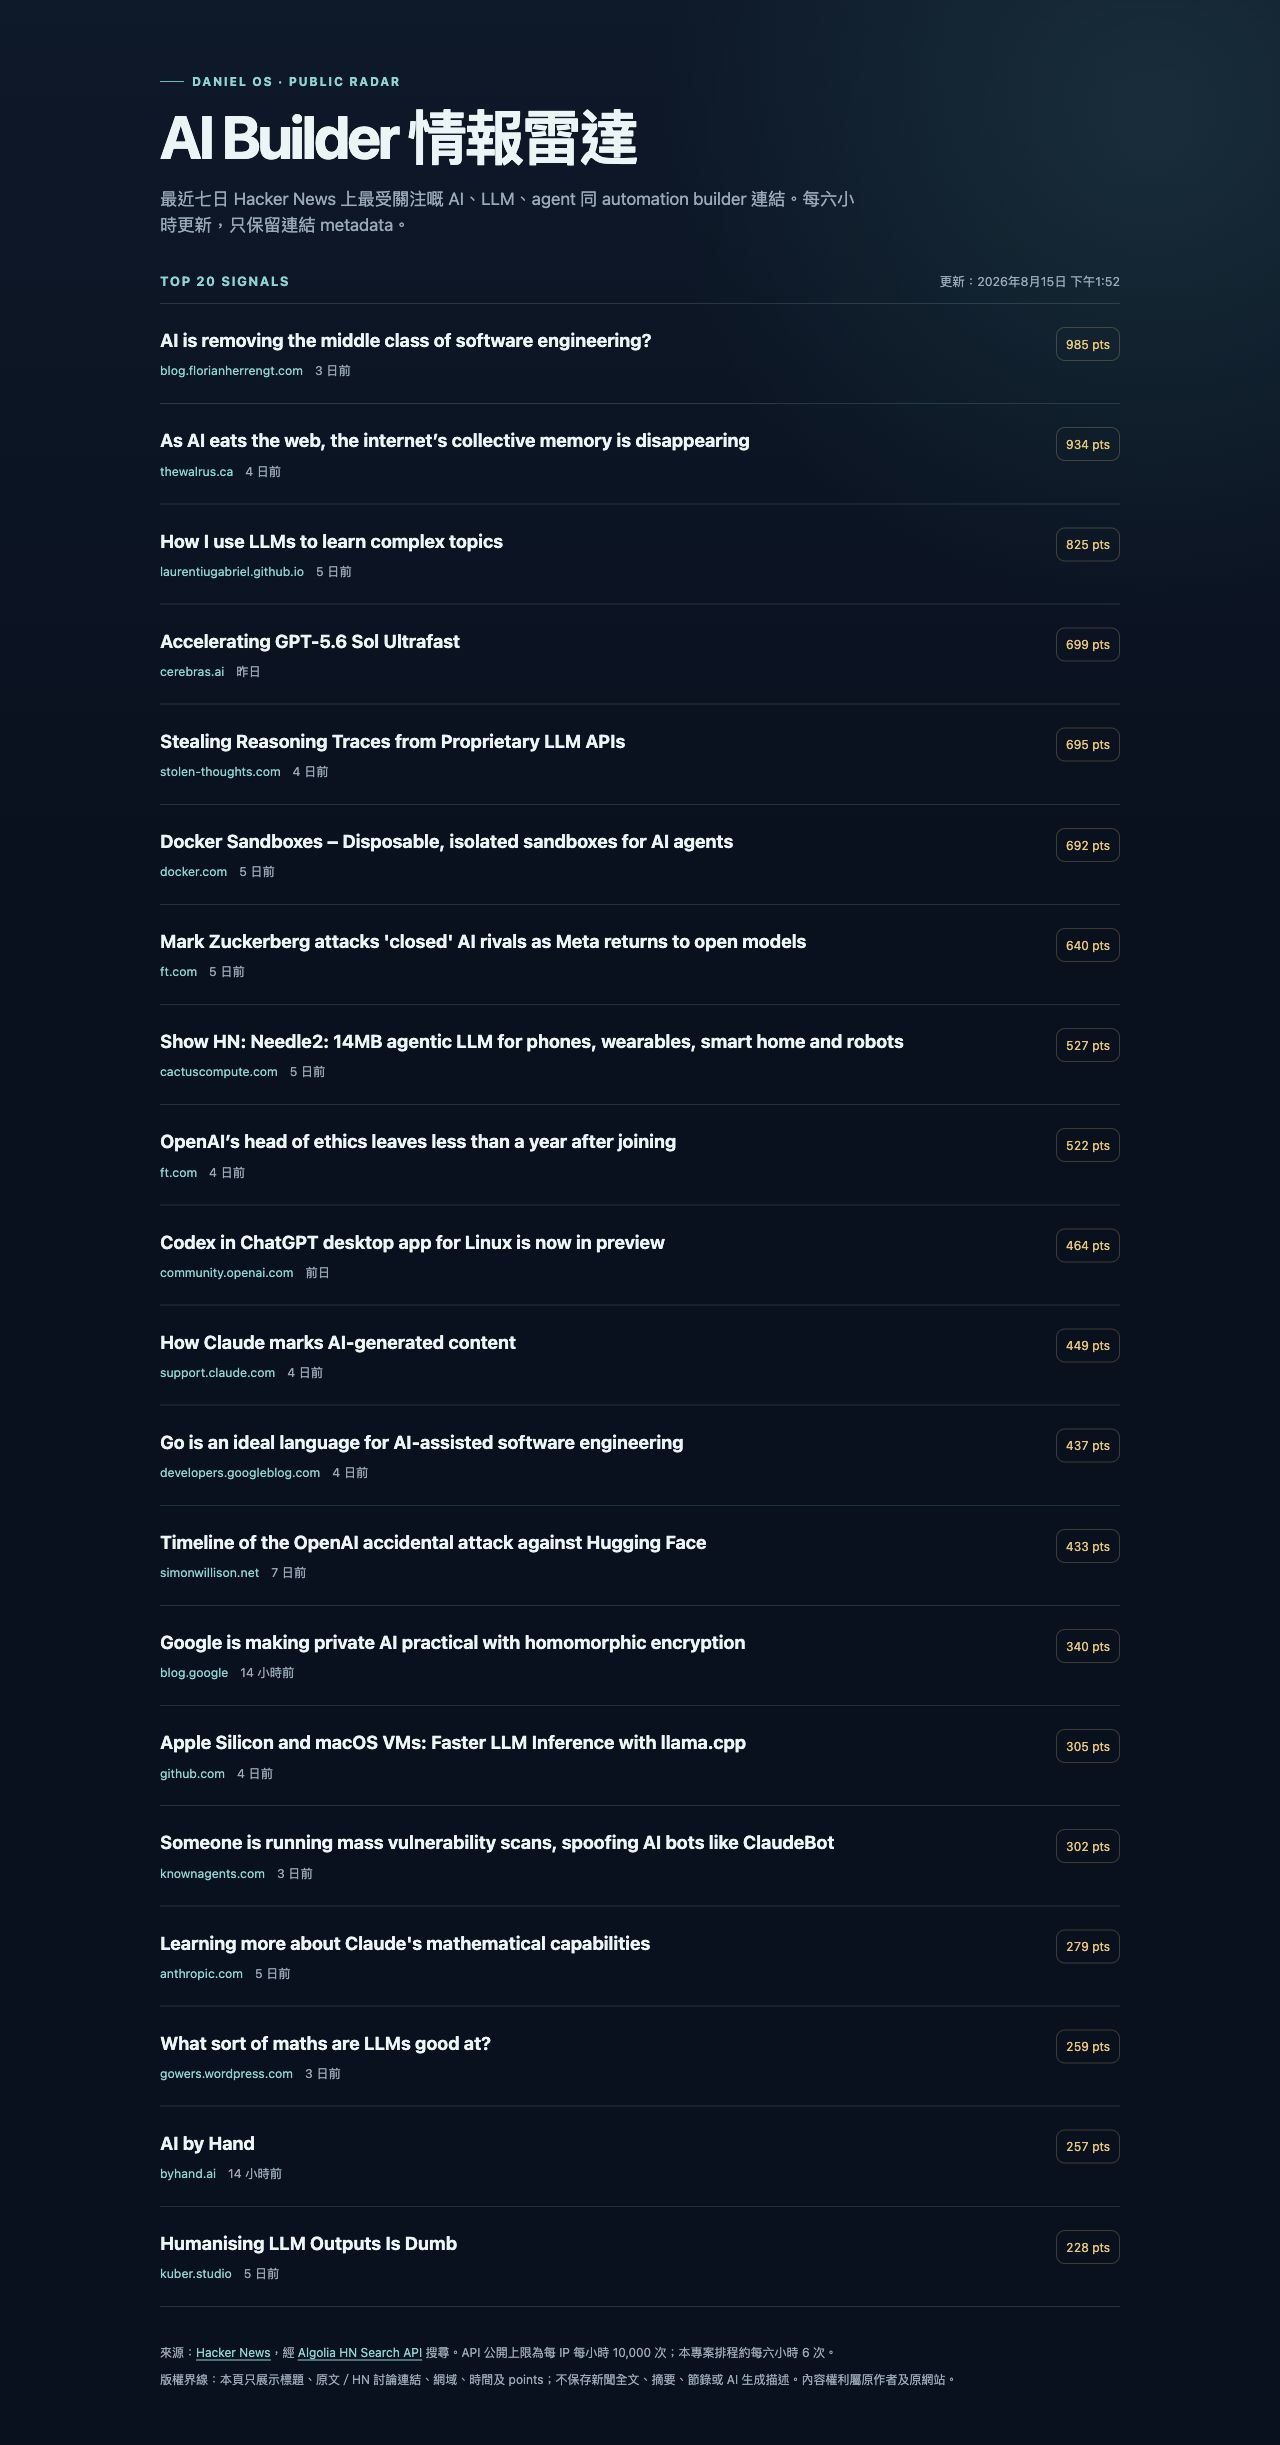
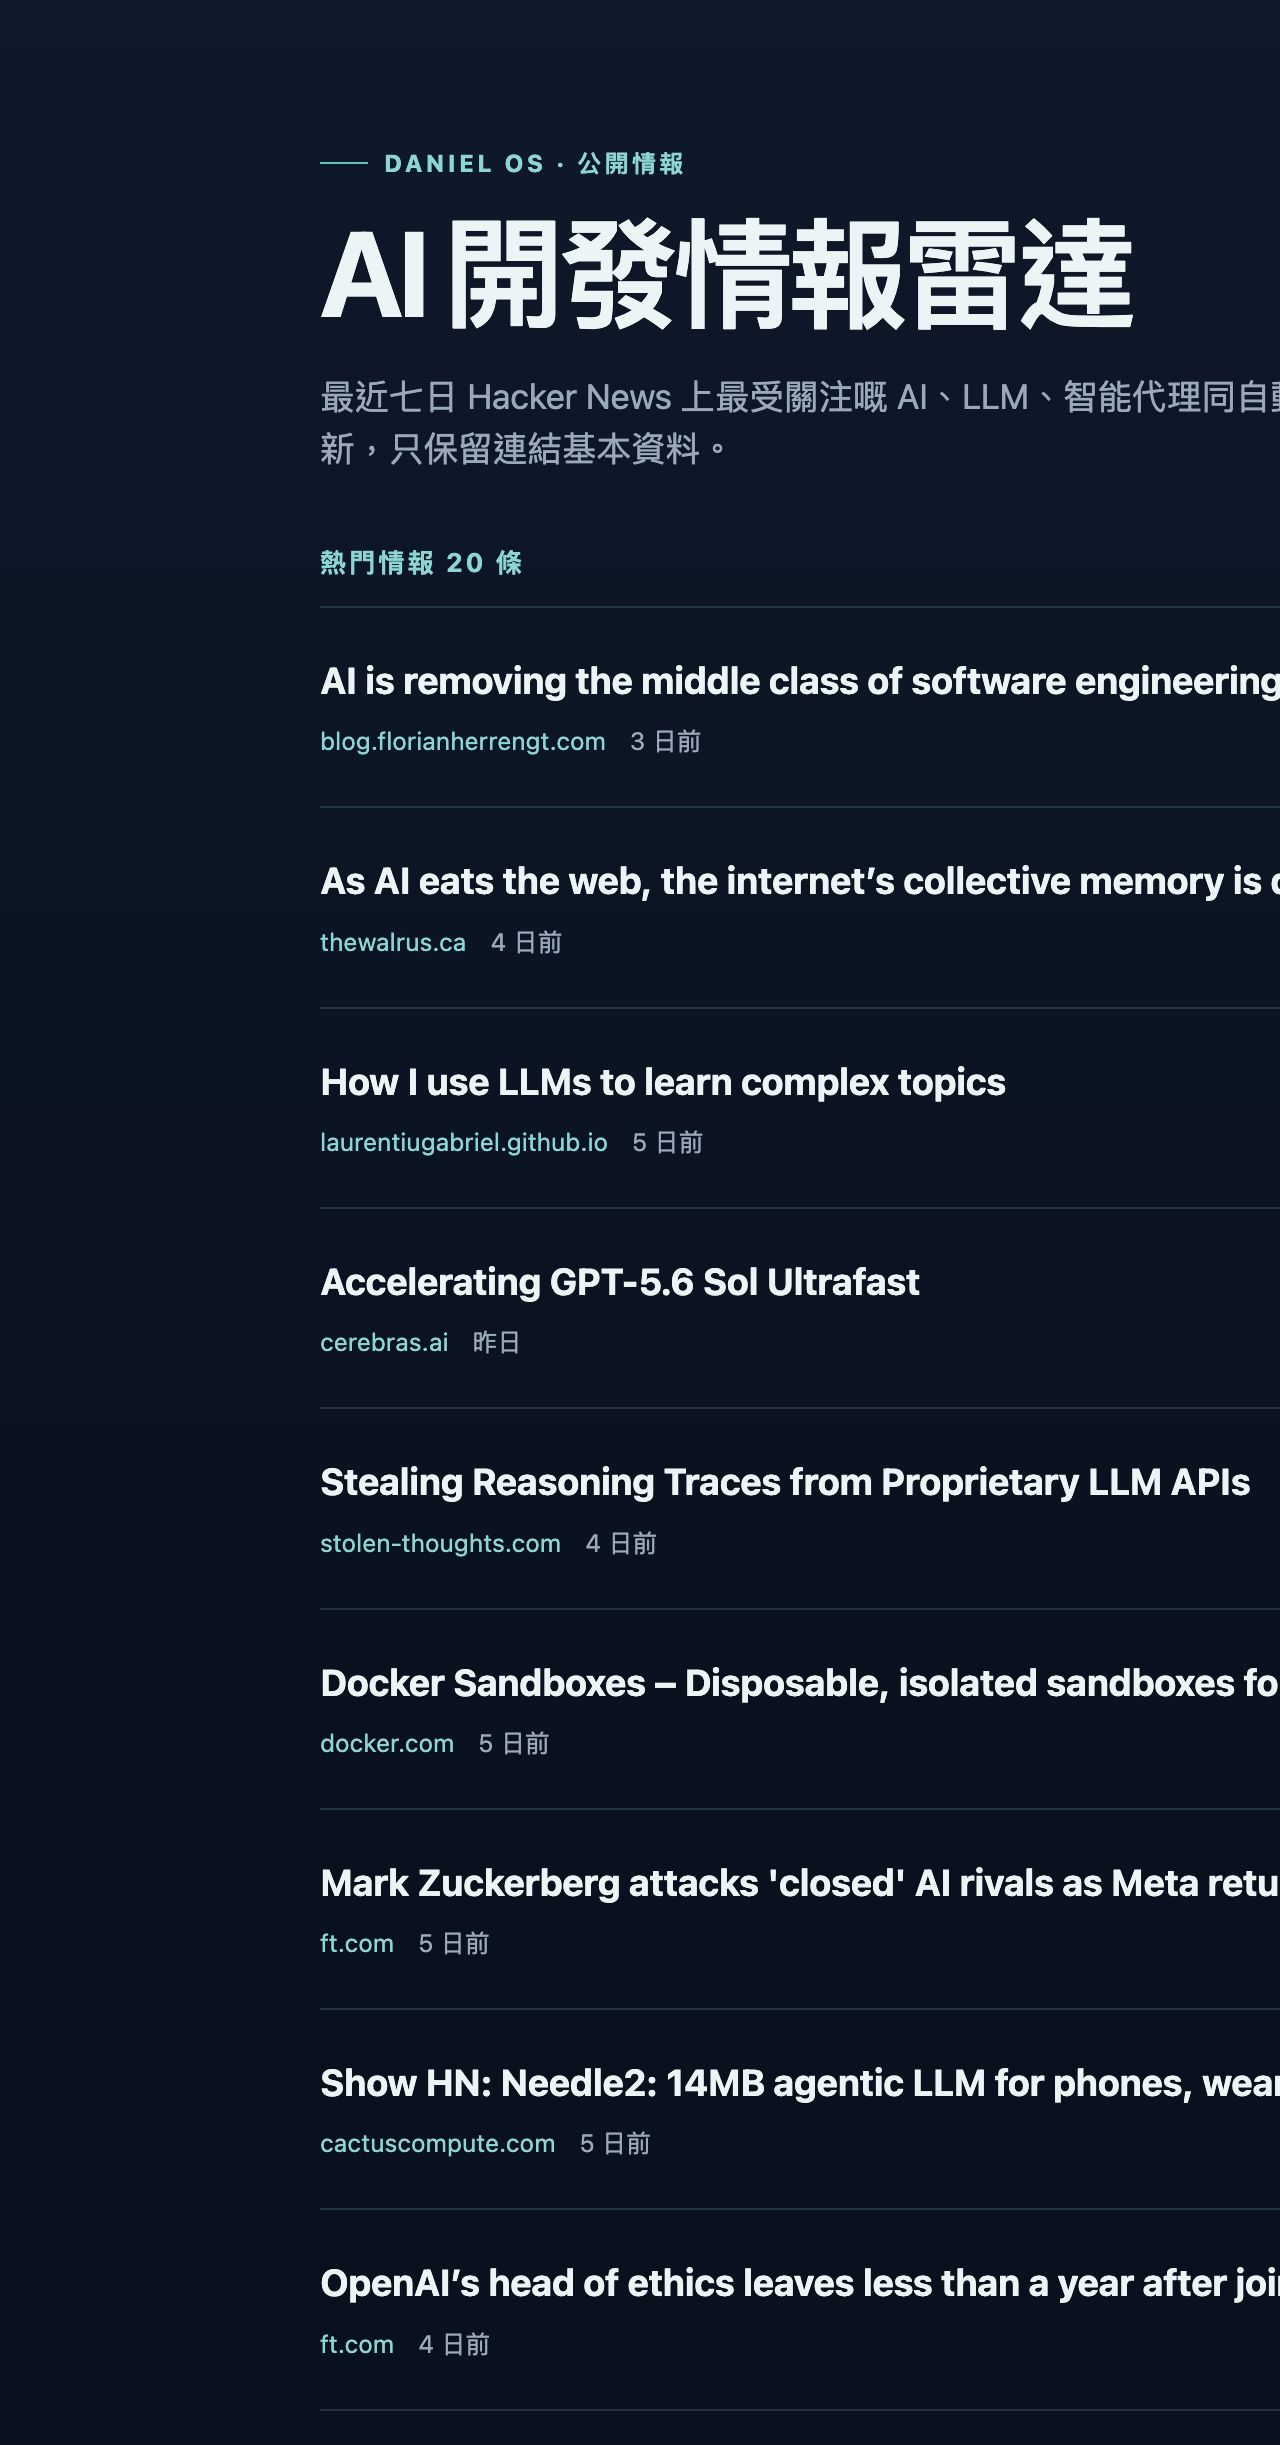
style: localize radar interface in Chinese

diff --git a/news.html b/news.html
@@ -3,8 +3,8 @@
 <head>
   <meta charset="utf-8">
   <meta name="viewport" content="width=device-width, initial-scale=1">
-  <meta name="description" content="Daniel AI Builder 情報雷達：最近七日 Hacker News AI builder 熱門連結。">
-  <title>Daniel AI Builder 情報雷達</title>
+  <meta name="description" content="Daniel AI 開發情報雷達：最近七日 Hacker News AI 開發熱門連結。">
+  <title>Daniel AI 開發情報雷達</title>
   <style>
     :root {
       color-scheme: dark;
@@ -104,15 +104,15 @@
 </head>
 <body>
   <header class="shell">
-    <div class="eyebrow">Daniel OS · Public Radar</div>
-    <h1>AI Builder 情報雷達</h1>
-    <p class="intro">最近七日 Hacker News 上最受關注嘅 AI、LLM、agent 同 automation builder 連結。每六小時更新，只保留連結 metadata。</p>
+    <div class="eyebrow">Daniel OS · 公開情報</div>
+    <h1>AI 開發情報雷達</h1>
+    <p class="intro">最近七日 Hacker News 上最受關注嘅 AI、LLM、智能代理同自動化開發連結。每六小時更新，只保留連結基本資料。</p>
   </header>
 
   <main class="shell">
     <div id="status" class="status" role="status" aria-live="polite"></div>
     <div class="toolbar">
-      <h2>Top 20 signals</h2>
+      <h2>熱門情報 20 條</h2>
       <div id="updated">載入中…</div>
     </div>
     <ol id="stories" aria-busy="true"></ol>
@@ -120,7 +120,7 @@
 
   <footer class="shell">
     <p>來源：<a href="https://news.ycombinator.com/" rel="noopener noreferrer">Hacker News</a>，經 <a href="https://hn.algolia.com/api" rel="noopener noreferrer">Algolia HN Search API</a> 搜尋。API 公開上限為每 IP 每小時 10,000 次；本專案排程約每六小時 6 次。</p>
-    <p>版權界線：本頁只展示標題、原文／HN 討論連結、網域、時間及 points；不保存新聞全文、摘要、節錄或 AI 生成描述。內容權利屬原作者及原網站。</p>
+    <p>版權界線：本頁只展示標題、原文／HN 討論連結、網域、時間及積分；不保存新聞全文、摘要、節錄或 AI 生成描述。內容權利屬原作者及原網站。</p>
   </footer>
 
   <script>
@@ -178,7 +178,7 @@
           main.append(link, meta);
           const points = document.createElement('span');
           points.className = 'points';
-          points.textContent = `${story.points ?? 0} pts`;
+          points.textContent = `${story.points ?? 0} 分`;
           item.append(main, points);
           list.append(item);
         }

diff --git a/README.md b/README.md
@@ -1,13 +1,13 @@
-# Daniel AI Builder 情報雷達
+# Daniel AI 開發情報雷達
 
-一個細而透明嘅公開情報頁：每六小時從 Hacker News 搜尋最近七日嘅 AI builder 訊號，排序後顯示最多 20 條。呢個 repo 係 Dot.ai L3 Day 1 功課第二部分，同私人 Daniel OS 分開；公開內容只有新聞 metadata。
+一個細而透明嘅公開情報頁：每六小時從 Hacker News 搜尋最近七日嘅 AI 開發訊號，排序後顯示最多 20 條。呢個 repo 係 Dot.ai L3 Day 1 功課第二部分，同私人 Daniel OS 分開；公開內容只有新聞基本資料。
 
 ## 公開頁與資料
 
 - Pages：<https://daniel117-lab.github.io/daniel-ai-builder-radar/>
 - 固定資料介面：[`data/news.json`](data/news.json)
 - 搜尋詞：`AI`、`LLM`、`AI agent`、`AI automation`、`OpenAI`、`Anthropic`
-- 顯示欄位：標題、原文／HN 討論連結、網域、相對時間、points
+- 顯示欄位：標題、原文／HN 討論連結、網域、相對時間、積分
 - 不保存：正文、摘要、節錄、留言、AI 生成描述、API 原始候選
 
 ## 資料流程
@@ -43,7 +43,7 @@ JSON 介面固定為：
 - 搜尋來源係 [Algolia Hacker News Search API](https://hn.algolia.com/api)。官方頁面提供公開程式介面，列明每 IP 每小時 10,000 次上限。
 - 排程每六小時一次，每次六個 query，即約 **6 requests/run、24 requests/day**，遠低於上限，亦不需要 API key 或 secret。
 - 2026-08-15 檢查 Hacker News `robots.txt`：它限制投票、登入、回覆等互動路徑。本專案不 crawl Hacker News 頁面，只經公開 Algolia API 搜尋並連結到原文／討論頁。
-- API 搜尋結果只轉存必要 metadata；標題及連結用作索引。全文、摘要、節錄及內容權利保留予原作者、Hacker News 及原網站。
+- API 搜尋結果只轉存必要基本資料；標題及連結用作索引。全文、摘要、節錄及內容權利保留予原作者、Hacker News 及原網站。
 - 如來源條款或 API 規則日後改變，應暫停 workflow 再重新檢查。
 
 ## 本機使用

diff --git a/Outputs/2026-08-15_Learning_Dotai-L3_AI-Builder-Radar_Review_v01.md b/Outputs/2026-08-15_Learning_Dotai-L3_AI-Builder-Radar_Review_v01.md
@@ -1,5 +1,5 @@
 ---
-title: Dot.ai L3 Day 1 — Daniel AI Builder 情報雷達驗收
+title: Dot.ai L3 Day 1 — Daniel AI 開發情報雷達驗收
 date: 2026-08-15
 status: in-progress
 area: Learning
@@ -8,7 +8,7 @@ type: review
 version: v01
 ---
 
-# Daniel AI Builder 情報雷達 — 驗收紀錄
+# Daniel AI 開發情報雷達 — 驗收紀錄
 
 ## 範圍
 
@@ -20,7 +20,7 @@ version: v01
 - [x] `objectID`／正規化 URL 去重、points／時間排序、最多 20 條
 - [x] 固定 JSON schema；無原文 URL 時連 HN 討論頁
 - [x] 六組全成功先原子寫入；失敗保留舊 JSON
-- [x] 公開頁只顯示必要 metadata，設八小時過期與錯誤狀態
+- [x] 公開頁只顯示必要基本資料，設八小時過期與錯誤狀態
 - [x] 六小時 workflow 與手動執行；同一 run 更新並部署 Pages
 - [x] 零 API secret；公開 repo credential 掃描
 - [ ] 真實 GitHub Pages 首次部署
